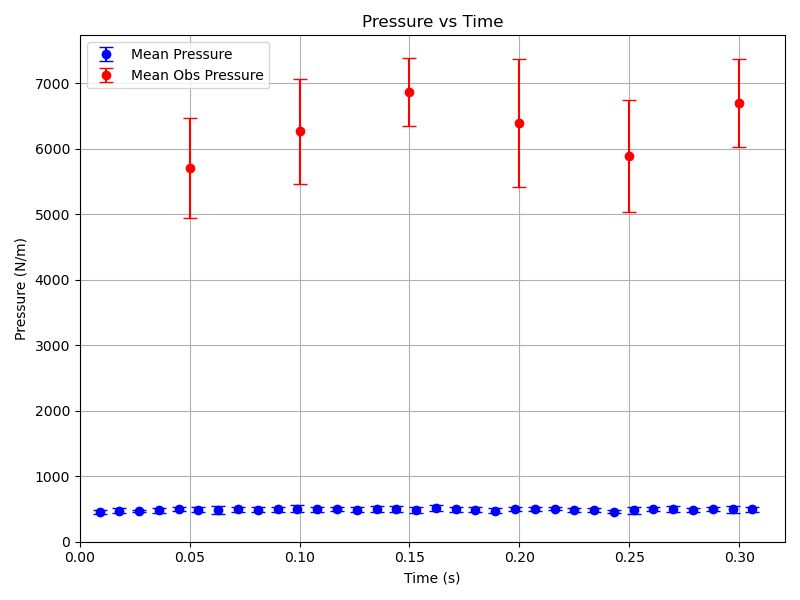
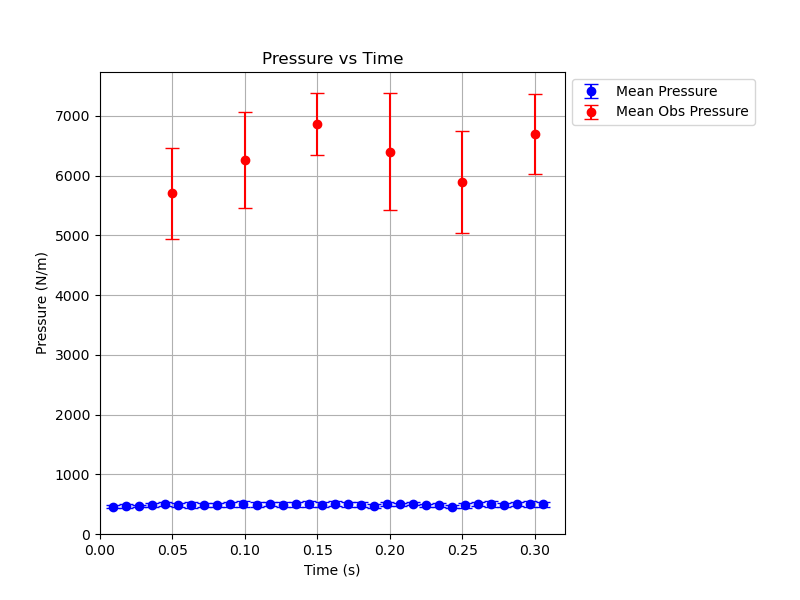
correct position for label on plotter

diff --git a/plotter/pressure_calculation.py b/plotter/pressure_calculation.py
@@ -90,8 +90,9 @@ def calculate_pressures_obs(file_path):
 def plot_pressure_vs_time(summary_df):
     plt.figure()
     ax = plt.subplot(111)
+
     # Plot mean pressure against deltaT with error bars for std_dev
-    plt.errorbar(
+    ax.errorbar(
         summary_df["deltaT"],
         summary_df["mean_pressure"],
         yerr=summary_df["std_dev"],
@@ -100,26 +101,24 @@ def plot_pressure_vs_time(summary_df):
         label="Mean Pressure",
     )
 
-    # Shrink current axis by 20%
+    # Shrink the current axis to make space for the legend
     box = ax.get_position()
-    ax.set_position([box.x0, box.y0, box.width * 0.8, box.height])
+    ax.set_position(
+        [box.x0, box.y0, box.width * 0.75, box.height]
+    )  # Shrink by 25% to make room
 
-    # Put a legend to the right of the current axis
-    ax.legend(loc="center left", bbox_to_anchor=(1, 0.5))
-    # Optionally, you can also plot with error instead of std_dev by uncommenting the line below:
-    # plt.errorbar(summary_df["deltaT"], summary_df["mean_pressure"], yerr=summary_df["error"], fmt='o', capsize=5, label='Mean Pressure (with Error)')
+    # Put the legend outside the plot, on the top right
+    ax.legend(loc="upper left", bbox_to_anchor=(1, 1))  # Top right outside the plot
 
     # Set plot labels and title
-    plt.xlabel("Time (s)")
-    plt.ylabel("Pressure (N/m)")
-    plt.xlim(left=0)
-    plt.ylim(bottom=0)
-    plt.title("Pressure vs Time")
-    plt.legend()
+    ax.set_xlabel("Time (s)")
+    ax.set_ylabel("Pressure (N/m)")
+    ax.set_xlim(left=0)
+    ax.set_ylim(bottom=0)
+    ax.set_title("Pressure vs Time")
 
-    # Show the plot
-    plt.grid(True)
-    plt.tight_layout()
+    # Show grid and save the plot
+    ax.grid(True)
     plt.savefig("pressure_vs_time.png")  # Save plot as an image
     plt.show()
 
@@ -127,6 +126,7 @@ def plot_pressure_vs_time(summary_df):
 def plot_both_pressures(summary_df, obs_summary_df):
     plt.figure(figsize=(8, 6))
     ax = plt.subplot(111)
+
     # Plot mean pressure against deltaT with error bars for std_dev
     plt.errorbar(
         summary_df["deltaT"],
@@ -147,13 +147,15 @@ def plot_both_pressures(summary_df, obs_summary_df):
         label="Mean Obs Pressure",
         color="red",
     )
-    # Shrink current axis by 20%
+
+    # Shrink the current axis to make space for the legend
     box = ax.get_position()
-    ax.set_position([box.x0, box.y0, box.width * 0.8, box.height])
-    # Put a legend to the right of the current axis
-    ax.legend(loc="center left", bbox_to_anchor=(1, 0.5))
-    # Optionally, you can also plot with error instead of std_dev by uncommenting the line below:
-    # plt.errorbar(summary_df["deltaT"], summary_df["mean_pressure"], yerr=summary_df["error"], fmt='o', capsize=5, label='Mean Pressure (with Error)')
+    ax.set_position(
+        [box.x0, box.y0, box.width * 0.75, box.height]
+    )  # Shrink by 25% to make room
+
+    # Put the legend outside the plot, top right
+    ax.legend(loc="upper left", bbox_to_anchor=(1, 1))  # Top right outside the plot
 
     # Set plot labels and title
     plt.xlabel("Time (s)")
@@ -161,11 +163,9 @@ def plot_both_pressures(summary_df, obs_summary_df):
     plt.xlim(left=0)
     plt.ylim(bottom=0)
     plt.title("Pressure vs Time")
-    plt.legend()
 
-    # Show the plot
+    # Show grid and save the plot
     plt.grid(True)
-    plt.tight_layout()
     plt.savefig("pressure_vs_time.png")  # Save plot as an image
     plt.show()
 
